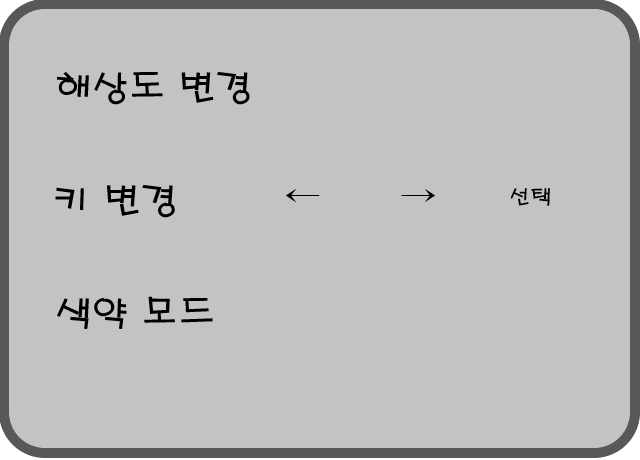
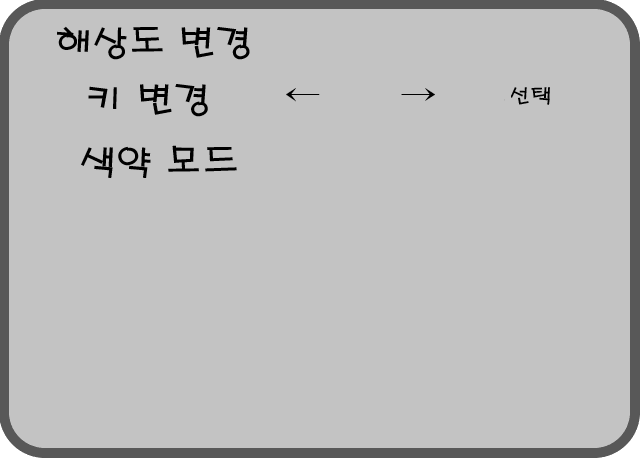
feat: option popup 벗어나는 지역 클릭 시 옵션창이 꺼지도록

diff --git a/Script/System/option.py b/Script/System/option.py
@@ -17,19 +17,19 @@ class Option():
         self.button_select_img = pygame.image.load(os.path.join(root, "Material/Button/button_select.png"))
         
         self.pop_up_default_pos = (0.5, 0.5)
-        self.screen_size_changer_button_default_pos = (0.6, 0.3)
+        self.screen_size_changer_button_default_pos = (0.6, 0.23)
         self.screen_size_block_default_poses = \
             [
-                (0.6, 0.35), 
-                (0.6, 0.4), 
-                (0.6, 0.45), 
-                (0.6, 0.5)
+                (0.6, 0.28), 
+                (0.6, 0.33), 
+                (0.6, 0.38), 
+                (0.6, 0.43)
             ]
-        self.left_key_button_default_pos = (0.53, 0.45)
-        self.right_key_button_default_pos = (0.62, 0.45)
-        self.enter_key_button_default_pos = (0.71, 0.45)
-        self.button_select_default_poses = [(0.53, 0.39), (0.62, 0.39), (0.71, 0.39)]
-        self.on_color_blindness_mode_default_pos = (0.53, 0.61)
+        self.left_key_button_default_pos = (0.53, 0.31)
+        self.right_key_button_default_pos = (0.62, 0.31)
+        self.enter_key_button_default_pos = (0.71, 0.31)
+        self.button_select_default_poses = [(0.53, 0.25), (0.62, 0.25), (0.71, 0.25)]
+        self.on_color_blindness_mode_default_pos = (0.53, 0.4)
         
         self.key_select_state = 0
         self.user_data = user_data
@@ -38,13 +38,13 @@ class Option():
         
     
     def display(self, main):
-        on_option = True
+        self.on_option = True
         for event in pygame.event.get():
             if event.type == pygame.QUIT:
                 main.running = False
                 
             if event.type == pygame.KEYDOWN:
-                on_option = self.keydown_option(event.key)
+                self.keydown_option(event.key)
             
             if event.type == pygame.MOUSEBUTTONDOWN: 
                 self.click_collide_option(main, event.pos)
@@ -54,15 +54,19 @@ class Option():
             
         self.draw_option(main.screen)
         
-        return on_option
+        return self.on_option
             
     def draw_option(self, screen):
         screen.blit(self.pop_up_img, self.pop_up_rect)
-        # 아래에서 위 순서로 그리기 (덮어쓰게)
+        # 아래에서 위 순서로 그리기, 현재 선택지 표시는 제일 아래로
         self.draw_color_blindness_option(screen)
         self.draw_key_setting_option(screen)
         self.draw_screen_size_option(screen)
+        self.draw_now_select_option(screen)
         
+    def draw_now_select_option(self,screen):
+        if(self.on_key_setting):
+            screen.blit(self.button_select_img, self.button_select_rect)
             
     def draw_screen_size_option(self, screen):
         screen.blit(self.screen_size_changer_button_img, self.screen_size_changer_button_rect)
@@ -74,9 +78,6 @@ class Option():
         screen.blit(self.key_button_img, self.left_key_button_rect)
         screen.blit(self.key_button_img, self.right_key_button_rect)
         screen.blit(self.key_button_img, self.enter_key_button_rect)
-        
-        if(self.on_key_setting):
-            screen.blit(self.button_select_img, self.button_select_rect)
             
     def draw_color_blindness_option(self, screen):
         if self.on_color_blindness_mode:
@@ -92,6 +93,8 @@ class Option():
             self.reset_on_option_state()
         elif self.screen_size_changer_button_rect.collidepoint(mouse_pos):
             self.on_screen_changer = not self.on_screen_changer
+        elif not self.pop_up_rect.collidepoint(mouse_pos):
+            self.on_option = False
         else:
             self.click_collide_color_blindness_option(mouse_pos)
     
@@ -124,12 +127,9 @@ class Option():
             
     def keydown_option(self, key):
         if(key == pygame.K_ESCAPE):
-            return False
+            self.on_option = False
         elif self.on_key_setting:
             self.change_key(key)
-            self.on_key_setting = False
-        
-        return True
     
     def change_screen_size(self, main, screen_size_index):
         self.user_data.set_screen_size(main, screen_size_index)

diff --git a/Script/game_main.py b/Script/game_main.py
@@ -45,7 +45,7 @@ class GameMain():
                 return self.play_game
             case _:
                 return None
-            
+
     def set_scene_obj(self, scene_state):
         match scene_state:
             case 0:
@@ -55,7 +55,7 @@ class GameMain():
                 self.play_game = GamePlay(self)
             case _:
                 pass
-                
+
     def reset_scene_obj(self, scene_state):
         print("hello")
         match scene_state:
